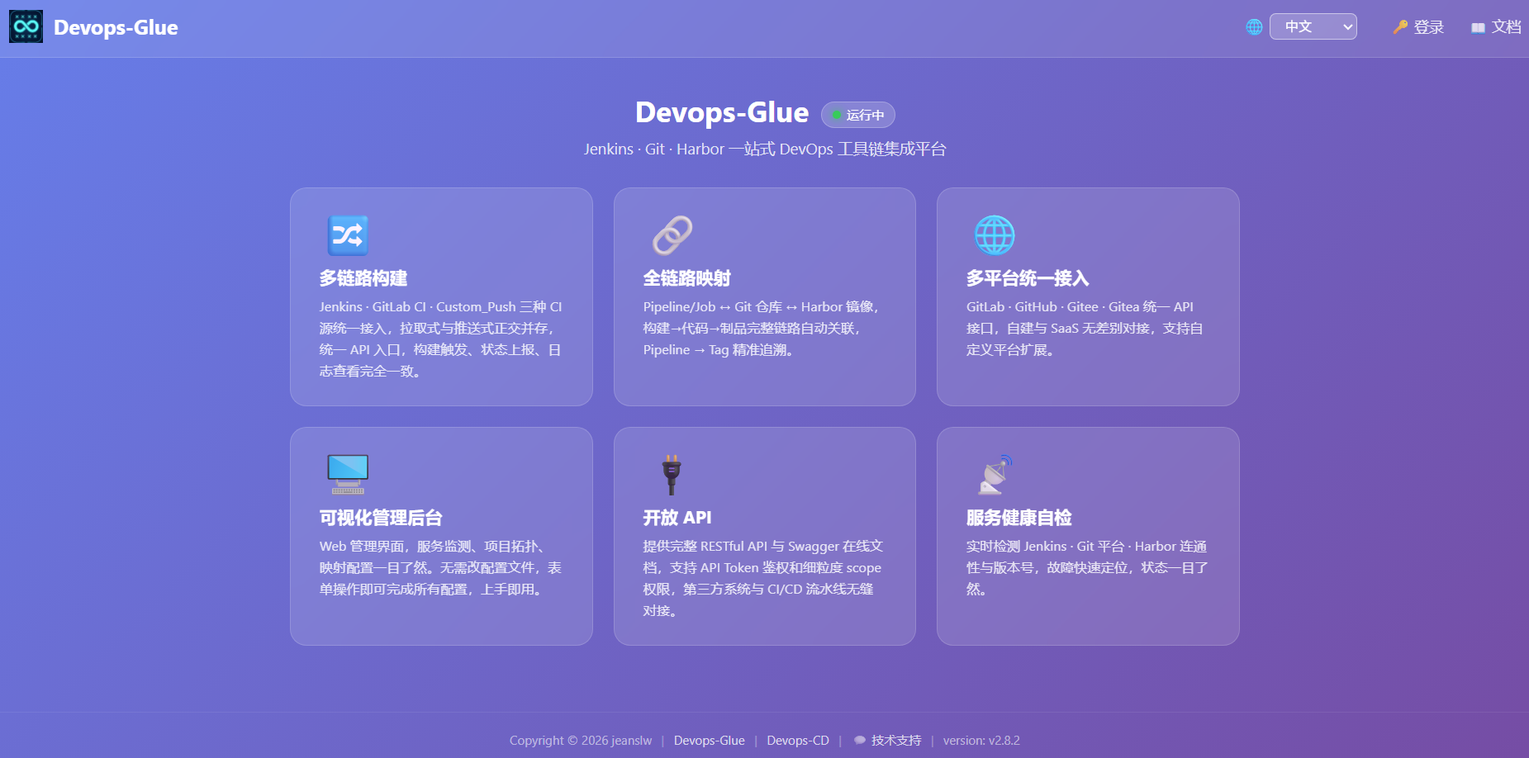
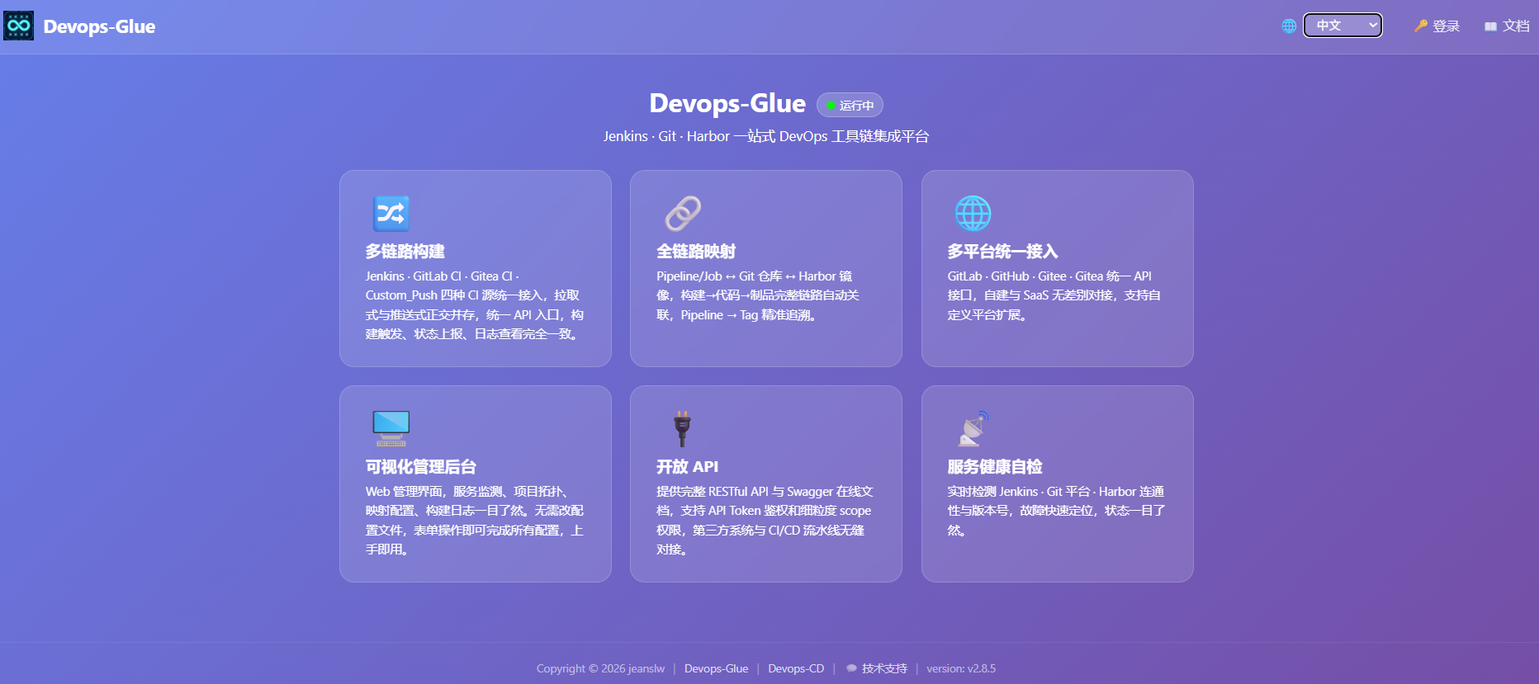
docs: 同步 2.8.5 分布式文档与截图回标准线，APP_VERSION/OpenAPI 升至 2.8.6
- 架构/部署/管理员手册、README、常见问题与系统截图合并回主线
- API_Documents.md 更名为 API_Reference.md，引用同步
- 补 v2.8.6 更新日志（中/英）

diff --git a/config/AppConfig.php b/config/AppConfig.php
@@ -3,7 +3,7 @@ namespace App\Config;
 
 class AppConfig
 {
-    public const APP_VERSION = '2.8.4';
+    public const APP_VERSION = '2.8.6';
 
 
     // ── 表名常量 ──

diff --git a/docs/架构全景图.md b/docs/架构全景图.md
@@ -11,11 +11,11 @@
 ┌─────────────────────────────────────────────────────────────┐
 │                     CI 层：Devops-Glue API (PHP)            │
 │                                                             │
-│  ┌──────────────┐  ┌──────────────┐   ┌──────────────┐      │
-│  │   Jenkins    │  │  GitLab CI   │   │   自定义 CI  │      │
-│  │ BuildProvider│  │ BuildProvider│   │ BuildProvider│      │
-│  └──────┬───────┘  └──────┬───────┘   └──────┬───────┘      │
-│         └─────────────────┼─────────────────┘               │
+│  ┌──────────────┐  ┌──────────────┐   ┌──────────────┐      │  ┌───────────────┐
+│  │   Jenkins    │  │  GitLab CI   │   │   Gitea CI   │      │  │  Custom Push  │ ← User CI
+│  │ BuildProvider│  │ BuildProvider│   │ BuildProvider│      │  │ (custom_push) │   (推送方)
+│  └──────┬───────┘  └──────┬───────┘   └──────┬───────┘      │  └───────┬───────┘
+│         └─────────────────┼──────────────────┼──────────────<──────────┼          
 │                           ↓                                 │
 │              Build → Docker Image → Harbor Registry         │
 │                           ↓                                 │
@@ -65,6 +65,60 @@
 > **数据库选型**：PHP CI 和 CD Service 必须使用同一个数据库实例。
 > - **SQLite**：零配置，适合单机开发/测试。容器部署时必须将 `config/data/` 目录挂载为共享卷，确保两边进程能访问同一个 `.db` 文件。
 > - **MySQL 8.0+ / MariaDB 10.4+**：推荐生产环境使用，支持并发读写，无需共享卷。
+
+## 部署拓扑（分布式）
+
+CI Web 层**无状态**——token 鉴权（无 `$_SESSION`），所有状态都在共享数据库，因此可水平扩展。唯一需要单实例的是定时任务（`tag-cleanup` / `tag-backfill`），已拆分到独立的 worker 容器。
+
+### 单镜像、双角色
+
+`devops-glue:latest` 镜像包含全部内容（nginx + php-fpm + supervisor + 应用代码 + CLI 脚本）。同一镜像以两种角色运行，唯一区别是挂载到 `/etc/supervisor/conf.d/supervisord.conf` 的 supervisor 配置不同：
+
+| 服务 | 挂载的 supervisor 配置 | 运行的程序 | 端口 |
+|---|---|---|---|
+| `devops-glue`（web） | `supervisord.conf` | nginx + php-fpm | 8080 |
+| `devops-glue-worker`（worker） | `supervisord-worker.conf` | tag-cleanup + tag-backfill | — |
+
+两者走同一 entrypoint（`db-init` 重试 → `exec supervisord`）、共享同一数据库（SQLite 用 `data/db`，或 MySQL 实例），各自运行独立的 supervisor 进程——因此扩展 web 层绝不会复制定时任务。
+
+### 分布式定时任务锁
+
+为保证即使误起多个 worker 副本，同一时刻也只有一个实例执行，两个 CLI 脚本在执行前都会在 `cache` 表获取**租约锁**（`Database::tryAcquireLock` / `releaseLock`）：
+
+- 锁键为 `cache_key = 'lock:tag-cleanup'` / `'lock:tag-backfill'`，跨实例共享（MySQL 多实例，或 SQLite 共享单文件）。
+- 抢占时先删除已过期租约，再用普通 `INSERT` 写入自己的租约——唯一键冲突说明他者持有有效锁 → 退出 0（跳过）。
+- 租约在 TTL（600s）后自动过期，持有者崩溃也不会死锁调度；释放按 token 精确匹配，超时被接管后不会误删新持有者的锁。
+
+```
+                 devops-glue × N（nginx + php-fpm，无状态）   ← 水平扩展
+                          │
+                          ▼  共享数据库（MySQL / SQLite）
+        devops-glue-worker × 1（tag-cleanup + tag-backfill，DB 锁）
+```
+
+> **SQLite**：仍是单文件数据库——挂载一个共享 `data/db` 卷；锁经同一文件的 WAL busy-timeout 串行化。多实例真并发建议用 MySQL。
+
+### 裸机部署（Bare-metal）
+
+不依赖 Docker/supervisord 时，部署分两块：
+
+- **Web 层**：常规 nginx + php-fpm（无状态、可水平扩展）。`nginx` 的 `root` 指向项目根 `public/`（唯一入口 `index.php`），`try_files` 重写到 `index.php` 走 Slim 路由，PHP 请求经 fastcgi 转发到 php-fpm。仓库内 `config/docker/nginx.conf` 即现成模板，把容器路径 `/app` 换成实际部署路径即可。
+- **定时任务**：容器里由 worker 的 supervisord sleep-loop 驱动，裸机改用系统 cron（或 systemd timer）定时调用两个 CLI：
+
+```cron
+# 每小时清理过期 tag（对应 TAG_CLEANUP_INTERVAL，默认 3600s）
+0 * * * * www-data php /opt/devops-glue/cli/cleanup-pipeline-tags.php >> /var/log/devops-glue/tag-cleanup.log 2>&1
+# 每 30 分钟回填日志 tag（对应 TAG_BACKFILL_INTERVAL，默认 1800s）
+*/30 * * * * www-data php /opt/devops-glue/cli/backfill-pipeline-tags.php >> /var/log/devops-glue/tag-backfill.log 2>&1
+```
+
+注意事项：
+
+- **开关默认关闭**：两任务受后台开关 `stale_tag_cleanup_enabled` / `backfill_tag_enabled` 控制（默认关），须先在「平台配置」页开启，否则 CLI 打印「跳过」并退出 0。
+- **运行用户**：须与 Web 进程（php-fpm）同用户（如 `www-data`），否则 root 先跑会创建 root 属主的 SQLite 库文件，导致 Web 侧写入失败。
+- **env 加载**：CLI 经 `cli/bootstrap.php` 自动加载 `config/app.env`（路径相对 `__DIR__`，不依赖工作目录），crontab 无需 `cd`。
+- **分布式锁兜底**：CLI 内置 `cache` 表租约锁，即使误配多份 cron 或与容器 worker 混跑，同一时刻也只一个实例执行，抢不到锁直接退出 0。
+- **日志目录**：重定向的日志目录须对运行用户可写。
 
 ## CI 构建模式：Pull-based 与 Push-based
 

diff --git a/docs/ARCHITECTURE.md b/docs/ARCHITECTURE.md
@@ -12,8 +12,8 @@
 │                  CI LAYER：Devops-Glue API (PHP)            │
 │                                                             │
 │  ┌──────────────┐  ┌──────────────┐   ┌──────────────┐      │  ┌───────────────┐
-│  │   Jenkins    │  │  GitLab CI   │   │   Gitea CI   │      │  │  Custom Push  │
-│  │ BuildProvider│  │ BuildProvider│   │ BuildProvider│      │  │               │
+│  │   Jenkins    │  │  GitLab CI   │   │   Gitea CI   │      │  │  Custom Push  │ ← User CI
+│  │ BuildProvider│  │ BuildProvider│   │ BuildProvider│      │  │ (custom_push) │  (pusher)
 │  └──────┬───────┘  └──────┬───────┘   └──────┬───────┘      │  └───────┬───────┘
 │         └─────────────────┼──────────────────┼──────────────<──────────┼          
 │                           ↓                                 │
@@ -64,6 +64,60 @@
 > **Database Selection**: PHP CI and CD Service must use the same database instance.
 > - **SQLite**: Zero-configuration, suitable for single-host development/testing. For container deployments, mount the `config/data/` directory as a shared volume so both processes can access the same `.db` file.
 > - **MySQL 8.0+ / MariaDB 10.4+**: Recommended for production. Supports concurrent reads and writes, no shared volume required.
+
+## Deployment Topology (Distributed)
+
+The CI web layer is **stateless** — token auth (no `$_SESSION`), all state in the shared DB — so it can scale out horizontally. The only single-instance part is the scheduled timer jobs (`tag-cleanup` / `tag-backfill`), moved into a dedicated worker container.
+
+### Single image, two roles
+
+The `devops-glue:latest` image carries everything (nginx + php-fpm + supervisor + app code + CLI scripts). The same image runs as two roles, distinguished only by which supervisor config is bind-mounted onto `/etc/supervisor/conf.d/supervisord.conf`:
+
+| Service | Mounted supervisor config | Programs it runs | Port |
+|---|---|---|---|
+| `devops-glue` (web) | `supervisord.conf` | nginx + php-fpm | 8080 |
+| `devops-glue-worker` (worker) | `supervisord-worker.conf` | tag-cleanup + tag-backfill | — |
+
+Both run the same entrypoint (`db-init` retry → `exec supervisord`) and share the same DB (`data/db` for SQLite, or the MySQL instance), each under its own supervisor process — so scaling the web layer never duplicates the timers.
+
+### Distributed timer lock
+
+To guarantee at-most-one timer run even if several worker replicas are started, both CLI scripts take a **lease lock in `cache`** (`Database::tryAcquireLock` / `releaseLock`) before doing work:
+
+- Key is `cache_key = 'lock:tag-cleanup'` / `'lock:tag-backfill'`, shared across instances (MySQL multi-instance, or a shared SQLite file).
+- Acquisition deletes expired leases, then `INSERT`s its own — a PK conflict means another instance holds a valid lease → exit 0 ("skip").
+- The lease auto-expires after its TTL (600s), so a crashed holder can't deadlock the schedule; release is token-scoped so a timeout-takeover can't delete the new holder's lock.
+
+```
+                 devops-glue × N  (nginx + php-fpm, stateless)   ← scale out
+                          │
+                          ▼   shared DB (MySQL / SQLite)
+        devops-glue-worker × 1  (tag-cleanup + tag-backfill, DB lock)
+```
+
+> **SQLite**: still a single file — mount one shared `data/db` volume; the lock serializes via the same file's WAL busy-timeout. For true multi-instance concurrency, use MySQL.
+
+### Bare-metal Deployment
+
+Without Docker/supervisord, deployment has two parts:
+
+- **Web layer**: regular nginx + php-fpm (stateless, horizontally scalable). Point `nginx` `root` at the project's `public/` (the single entry point `index.php`), `try_files`-rewrite to `index.php` for Slim routing, and fastcgi-forward PHP requests to php-fpm. The repo's `config/docker/nginx.conf` is a ready-made template — just replace the container path `/app` with your deploy path.
+- **Timer jobs**: in containers the worker's supervisord sleep-loop drives them; on bare metal, schedule the two CLIs from system cron (or a systemd timer):
+
+```cron
+# hourly: clean up stale tags (matches TAG_CLEANUP_INTERVAL, default 3600s)
+0 * * * * www-data php /opt/devops-glue/cli/cleanup-pipeline-tags.php >> /var/log/devops-glue/tag-cleanup.log 2>&1
+# every 30 min: backfill log-derived tags (matches TAG_BACKFILL_INTERVAL, default 1800s)
+*/30 * * * * www-data php /opt/devops-glue/cli/backfill-pipeline-tags.php >> /var/log/devops-glue/tag-backfill.log 2>&1
+```
+
+Notes:
+
+- **Switches default off**: both jobs are gated by `stale_tag_cleanup_enabled` / `backfill_tag_enabled` (default off); enable them on the platform-config page first, otherwise the CLI prints "skip" and exits 0.
+- **Run user**: use the same user as the web process (php-fpm, e.g. `www-data`); otherwise root running first creates a root-owned SQLite file and the web side fails to write.
+- **env loading**: the CLI auto-loads `config/app.env` via `cli/bootstrap.php` (paths relative to `__DIR__`, no cwd dependence), so no `cd` is needed in crontab.
+- **Distributed lock safety**: the CLI has a built-in `cache`-table lease lock, so even misconfigured duplicate crons (or mixing with a container worker) run at most one instance at a time; losing the lock just exits 0.
+- **Log dir**: the redirected log directory must be writable by the run user.
 
 ## CI Build Modes: Pull-based vs Push-based
 

diff --git a/README.md b/README.md
@@ -54,18 +54,18 @@ DevOps-Glue API is a Slim 4–based integration platform designed to enhance Dev
 
 ```
 ┌─────────────────────────────────────────────────────────────┐
-│                      CODE PUSH                              │
+│                        CODE PUSH                            │
 │  GitLab / Gitee / GitHub / Gitea  →  Webhook Trigger        │
 └──────────────────────────┬──────────────────────────────────┘
                            ↓
 ┌─────────────────────────────────────────────────────────────┐
-│                     CI LAYER: Devops-Glue API (PHP)         │
+│                  CI LAYER：Devops-Glue API (PHP)            │
 │                                                             │
-│  ┌──────────────┐  ┌──────────────┐   ┌──────────────┐      │
-│  │   Jenkins    │  │  GitLab CI   │   │   Custom CI  │      │
-│  │ BuildProvider│  │ BuildProvider│   │ BuildProvider│      │
-│  └──────┬───────┘  └──────┬───────┘   └──────┬───────┘      │
-│         └─────────────────┼──────────────────┘              │
+│  ┌──────────────┐  ┌──────────────┐   ┌──────────────┐      │  ┌───────────────┐
+│  │   Jenkins    │  │  GitLab CI   │   │   Gitea CI   │      │  │  Custom Push  │ ← User CI
+│  │ BuildProvider│  │ BuildProvider│   │ BuildProvider│      │  │ (custom_push) │  (pusher)
+│  └──────┬───────┘  └──────┬───────┘   └──────┬───────┘      │  └───────┬───────┘
+│         └─────────────────┼──────────────────┼──────────────<──────────┼          
 │                           ↓                                 │
 │              Build → Docker Image → Harbor Registry         │
 │                           ↓                                 │
@@ -73,19 +73,19 @@ DevOps-Glue API is a Slim 4–based integration platform designed to enhance Dev
 └──────────────────────────┬──────────────────────────────────┘
                            ↓
 ┌─────────────────────────────────────────────────────────────┐
-│                     CD LAYER: cd_service (Python)           │
+│                  CD LAYER：cd_service (Python)              │
 │                                                             │
 │   Select Project + Tag  ──→  Deploy Execution               │
 │                                                             │
 │   ┌──────────────┐  ┌──────────────┐  ┌──────────────┐      │
-│   │  SSH Script  │  │Docker Compose│  │  Kubernetes  │      │
+│   │ SSH Script   │  │Docker Compose│  │  Kubernetes  │      │
 │   │  Ansible     │  │  SFTP + up   │  │ kubectl/Helm │      │
 │   │              │  │              │  │ ArgoCD/FluxCD│      │
 │   └──────────────┘  └──────────────┘  └──────────────┘      │
 │                           ↓                                 │
 │              cd_deploy_logs (Deployment Records)            │
 │                           ↓                                 │
-│              DingTalk / WeCom Webhook Notifications         │
+│            DingTalk / WeCom Webhook Notifications           │
 └─────────────────────────────────────────────────────────────┘
 ```
 </details>
@@ -138,7 +138,7 @@ See [docs/ADMIN_MANUAL.md](docs/ADMIN_MANUAL.md) for full environment variable r
 
 | Document | Language | Description |
 |----------|----------|-------------|
-| [API Reference](docs/API_Documents.md) | EN | API endpoints, request/response formats, quick tests |
+| [API Reference](docs/API_Reference.md) | EN | API endpoints, request/response formats, quick tests |
 | [ARCHITECTURE](docs/ARCHITECTURE.md) | EN | Overall data flow, component relationships, deployment pattern matrix|
 | [Admin Manual](docs/ADMIN_MANUAL.md) | EN | Environment variables, mapping config, custom Git platform |
 | [User Manual](docs/USER_MANUAL.md) | EN | User Guide|

diff --git a/docs/CHANGELOG.md b/docs/CHANGELOG.md
@@ -1,5 +1,15 @@
 # Changelog
 
+## v2.8.6 (2026-09-23)
+- **Docs & screenshots synced from 2.8.5** — Architecture (CN/EN), deployment-config manual, admin manual, README (CN/EN), FAQ and the system screenshots are brought back onto the standard line, so the standard documentation covers the distributed-deployment split (single-image/two-role containers + distributed timer lock) too. `API_Documents.md` is renamed to `API_Reference.md` and all references updated.
+- **Versioning** — `APP_VERSION` bumped to 2.8.6 (marks the schema-migration intent); OpenAPI `version` synced (CN/EN).
+
+## v2.8.5 (2026-09-22)
+- **Distributed-deployment support (timer split)** — The stateless web layer is now separated from the scheduled timer jobs so it can scale out safely. `supervisord.conf` keeps only nginx + php-fpm; a new `supervisord-worker.conf` runs just `tag-cleanup` / `tag-backfill`, and docker-compose gains a `devops-glue-worker` service that reuses the same `devops-glue:latest` image (same entrypoint, only a different supervisor config bind-mounted onto the same path; no port).
+- **Distributed timer lock** — `Database::tryAcquireLock()` / `releaseLock()` add a lease lock backed by the `cache` table (`cache_key` PK), so the timers run at most once across multiple worker replicas (MySQL multi-instance or a shared SQLite file). Acquisition deletes expired leases then does a plain `INSERT` (a PK conflict means the lock is held → exit 0 "skip"); release is token-scoped so a timeout-takeover can't delete the new holder's lease; the lease auto-expires via TTL (600s) so a crashed holder can't deadlock the schedule. Both `cli/cleanup-pipeline-tags.php` and `cli/backfill-pipeline-tags.php` acquire/release the lock around the work phase.
+- **Documentation** — Architecture docs (CN/EN) document the single-image/two-role container split and the distributed timer lock.
+- **Versioning** — `APP_VERSION` bumped to 2.8.5; OpenAPI `version` synced (CN/EN).
+
 ## v2.8.4 (2026-09-20)
 - **Image Tag column for pull records** — Pull-type build records (jobs list / pipelines) gain an "Image Tag" column, projected from the harbor-scan writeback success onto `ci_pipeline_artifacts`.
 - **Log-derived tag fallback** — When the canonical artifact tag has not been written back yet, the build log is lazily parsed to derive the image tag using configurable keywords (multi-keyword, `|`-separated). The result is cached in `ci_pipeline_build_log` (`source='log'`) together with the canonical identity (`provider` / `project_id`) and Harbor `repository`, so it can be promoted later without re-resolving the provider.

diff --git a/docs/更新日志.md b/docs/更新日志.md
@@ -1,5 +1,15 @@
 # 更新日志
 
+## v2.8.6 (2026-09-23)
+- **文档与截图自 2.8.5 同步回主线** — 架构文档（中/英）、部署配置手册、管理员手册、README（中/英）、常见问题及系统截图合并回主线，标准线文档同样覆盖分布式部署拆分（单镜像/双角色容器 + 分布式定时任务锁）。`API_Documents.md` 更名为 `API_Reference.md`，相关引用同步更新。
+- **版本号** — `APP_VERSION` 升级至 2.8.6（标记 schema 迁移意图）；OpenAPI `version` 字段同步（中英双份）。
+
+## v2.8.5 (2026-09-22)
+- **分布式部署支持（定时任务拆分）** — 无状态 Web 层与定时任务分离，可安全水平扩展。`supervisord.conf` 只保留 nginx + php-fpm；新增 `supervisord-worker.conf` 只跑 `tag-cleanup` / `tag-backfill`；docker-compose 新增 `devops-glue-worker` 服务，复用同一 `devops-glue:latest` 镜像（同一 entrypoint，仅挂载到同一路径的 supervisor 配置不同；不映射端口）。
+- **分布式定时任务锁** — `Database::tryAcquireLock()` / `releaseLock()` 基于 `cache` 表（`cache_key` 主键）新增租约锁，保证多 worker 副本下定时任务至多一个实例执行（MySQL 多实例或 SQLite 共享单文件）。抢占先删过期租约再普通 `INSERT`（唯一键冲突即锁被持有 → 退出 0「跳过」）；释放按 token 精确匹配，超时被接管后不会误删新持有者的锁；租约经 TTL（600s）自动过期，持有者崩溃不会死锁调度。`cli/cleanup-pipeline-tags.php` 与 `cli/backfill-pipeline-tags.php` 均在执行阶段前后获取/释放锁。
+- **文档** — 架构文档（中/英）补充单镜像/双角色容器拆分与分布式定时任务锁说明。
+- **版本号** — `APP_VERSION` 升级至 2.8.5；OpenAPI `version` 字段同步（中英双份）。
+
 ## v2.8.4 (2026-09-20)
 - **拉取式记录「镜像 Tag」列** — 拉取式构建记录（jobs 列表 / pipelines）新增「镜像 Tag」列，由 harbor-scan 回写成功结果投影到 `ci_pipeline_artifacts`。
 - **日志法兜底推导 tag** — 当 canonical artifact 尚未回写 tag 时，按可配置关键字（多关键字，`|` 分隔）懒解析构建日志推导镜像 tag，结果连同 canonical 身份（`provider` / `project_id`）与 Harbor `repository` 缓存在 `ci_pipeline_build_log`（`source='log'`），便于后续无需重解析 provider 即可回填。

diff --git a/docs/ADMIN_MANUAL.md b/docs/ADMIN_MANUAL.md
@@ -38,6 +38,7 @@ Devops-Glue API is a Slim4-based unified API layer that provides a single manage
 
 | Devops-Glue API | Devops-Glue CD |
 |:---:|:---:|
+| v2.8.5 | v1.5.x |
 | v2.8.4 | v1.5.x |
 | v2.8.3 | v1.5.x |
 | v2.8.2 | v1.5.x |
@@ -318,7 +319,7 @@ The related settings live on the **System Settings → Platform Config** page:
 - **Enable stale-tag cleanup** (`stale_tag_cleanup_enabled`): periodically removes tags from `ci_pipeline_artifacts` that no longer exist in Harbor (Harbor is the source of truth; an unreachable/unconfigured Harbor is skipped safely — never a wrong delete).
 - **Image-tag log backfill** (`backfill_tag_enabled`): periodically promotes log-derived tags into the canonical `ci_pipeline_artifacts` — **only after Harbor explicitly confirms the tag exists**, and only filling gaps where no tag exists yet; it never overwrites the authoritative scan-sync result. Off by default.
 
-Both cron jobs are driven by the container's supervisord sleep-loop (no system cron needed); their intervals are overridable via the root `app.env` vars `TAG_CLEANUP_INTERVAL` (default 3600s) / `TAG_BACKFILL_INTERVAL` (default 1800s).
+Both cron jobs are driven by the container's supervisord sleep-loop (no system cron needed); their intervals are overridable via the root `app.env` vars `TAG_CLEANUP_INTERVAL` (default 3600s) / `TAG_BACKFILL_INTERVAL` (default 1800s). **On bare metal** (no supervisord), schedule the two CLIs with system cron instead — see the "Bare-metal Deployment" section in the architecture doc.
 
 > If a record's log-derived tag was parsed incorrectly (e.g. it picked up the previous build's tag), the **↻ Re-parse** button next to that tag force-re-parses it (skips the cache and re-extracts by the current build number).
 

diff --git a/docs/Technical-Guide.md b/docs/Technical-Guide.md
@@ -727,7 +727,7 @@ The system uses a role-based access control (RBAC) model with **all tables store
 | POST | `/api/admin/api_tokens/{id}/revoke` | Revoke a token (soft delete, disable and keep the record) | super_admin |
 | DELETE | `/api/admin/api_tokens/{id}` | Delete a token (hard delete) | super_admin |
 
-> API tokens are sent via the standard `Authorization: Bearer <token>` header, independent of RBAC, and carry scopes directly; `/api/admin/*` admin endpoints are always fail-closed (403) for API tokens. See [API_Documents.md](API_Documents.md), "API Token Management".
+> API tokens are sent via the standard `Authorization: Bearer <token>` header, independent of RBAC, and carry scopes directly; `/api/admin/*` admin endpoints are always fail-closed (403) for API tokens. See [API_Reference.md](API_Reference.md), "API Token Management".
 
 **Implied-relation expansion logic** (`expandPermissions()`):
 ```php

diff --git a/docs/常见问题.md b/docs/常见问题.md
@@ -1,4 +1,4 @@
-# Devops-Glue API 常见问题 FAQ v2.7.0
+# Devops-Glue API 常见问题 FAQ v2.8.0
 
 ## 目录
 
